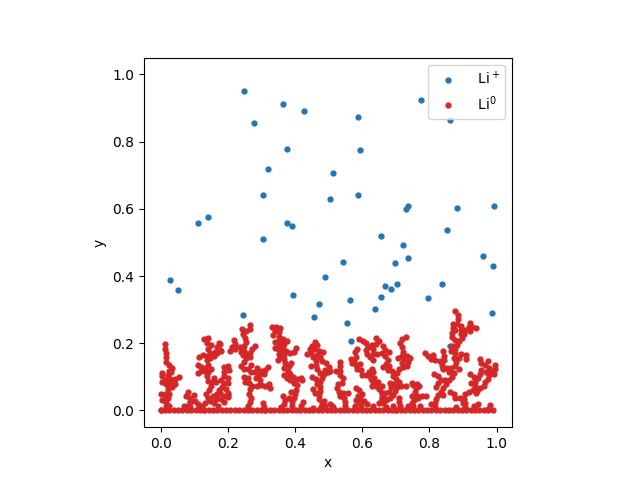
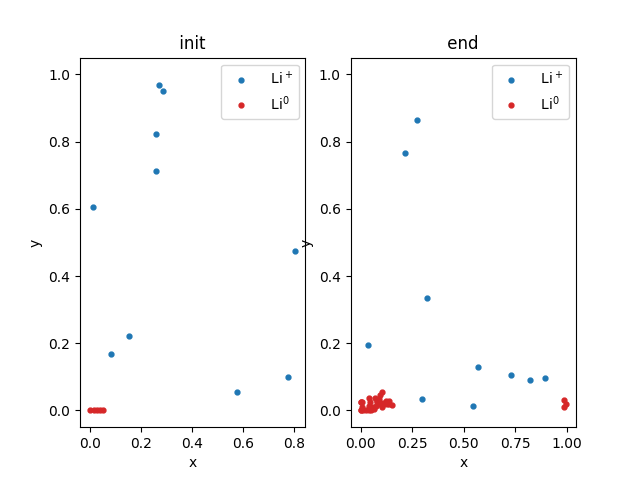
Graficos .py

diff --git a/original.py b/original.py
@@ -12,11 +12,11 @@ import matplotlib.pyplot as plt
 # Inicialización de variables
 
 dt = 1e-6
-n0 = 77     #comienzo con este numero de li0 depositados sobre la sup
+n0 = 5#77     #comienzo con este numero de li0 depositados sobre la sup
 n0max = 600 #numero maximo de particulas li0
 rli0 = 1.67e-10  #radio atomico del li0
 rlim = 1.2e-10   #radio atomico del li+
-nm = 50          #Este numero debe mantenerse a lo largo de la ev temporal
+nm = 10#50          #Este numero debe mantenerse a lo largo de la ev temporal
 D = 1.4e-14      #coef de dif del Li+ en el electrolito
 tita = 0
 gx = 0
@@ -190,39 +190,34 @@ print('Cantidad de Li0 =', m)
 
 #%%
 
+fig, (axi, axf) = plt.subplots(1,2)
+
 #Gráfico del sistema inicial
 
-plt.figure(10)
 x = ex_init
 f = ey_init
 y = lix_d
 g = liy_d
-ax = plt.subplot(111)
-ax.plot(x,f,linestyle='', marker='.', markersize=7,color='#1f77b4', label=' Li$^+$')
-ax.plot(y,g,linestyle='', marker='.', markersize=7,color='#d62728', label=' Li$^0$')
-plt.ylim([-0.05,1.05])
-plt.xlabel('x')
-plt.ylabel('y')
-plt.title(' init ')
-ax.legend()
-ax.set_aspect('equal', adjustable='box')
+axi.plot(x,f,linestyle='', marker='.', markersize=7,color='#1f77b4', label=' Li$^+$')
+axi.plot(y,g,linestyle='', marker='.', markersize=7,color='#d62728', label=' Li$^0$')
+axi.set_ylim([-0.05,1.05])
+axi.set_xlabel('x')
+axi.set_ylabel('y')
+axi.set_title(' init ')
+axi.legend()
 
 #Gráfico del sistema final
 
-plt.figure(20)
 x = ex
 f = ey
 y = lix_0
 g = liy_0
-ax = plt.subplot(111)
-ax.plot(x,f,linestyle='', marker='.', markersize=7,color='#1f77b4', label=' Li$^+$')
-ax.plot(y,g,linestyle='', marker='.', markersize=7,color='#d62728', label=' Li$^0$')
-plt.ylim([-0.05,1.05])
-plt.xlabel('x')
-plt.ylabel('y')
-plt.title(' ')
-ax.legend()
-ax.set_aspect('equal', adjustable='box')
+axf.plot(x,f,linestyle='', marker='.', markersize=7,color='#1f77b4', label=' Li$^+$')
+axf.plot(y,g,linestyle='', marker='.', markersize=7,color='#d62728', label=' Li$^0$')
+axf.set_ylim([-0.05,1.05])
+axf.set_xlabel('x')
+axf.set_ylabel('y')
+axf.set_title(' end ')
+axf.legend()
 
-
-plt.show()
+plt.savefig('Muri')
